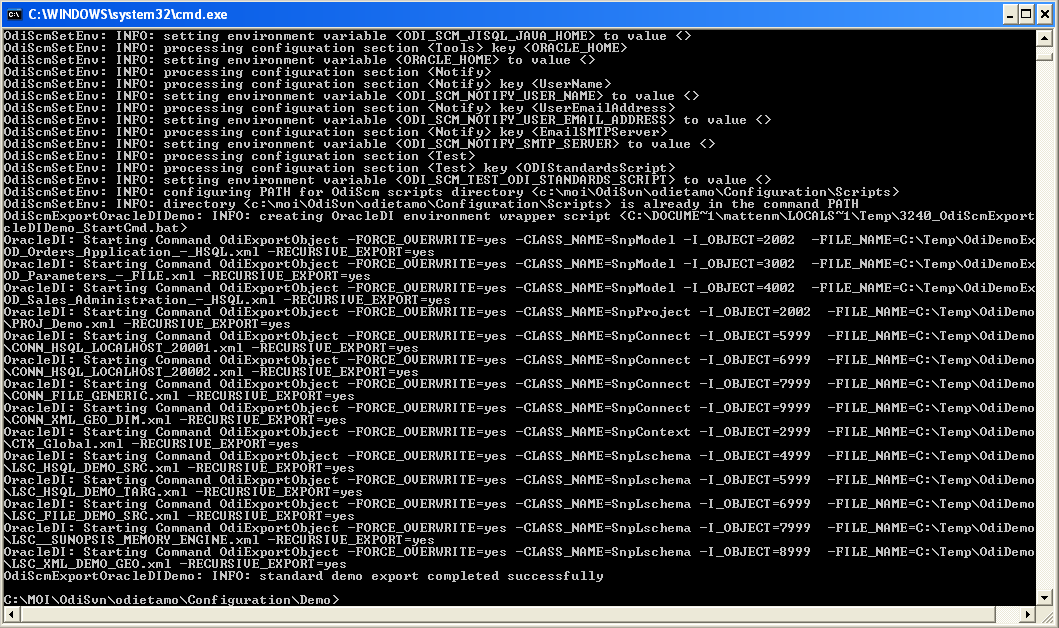
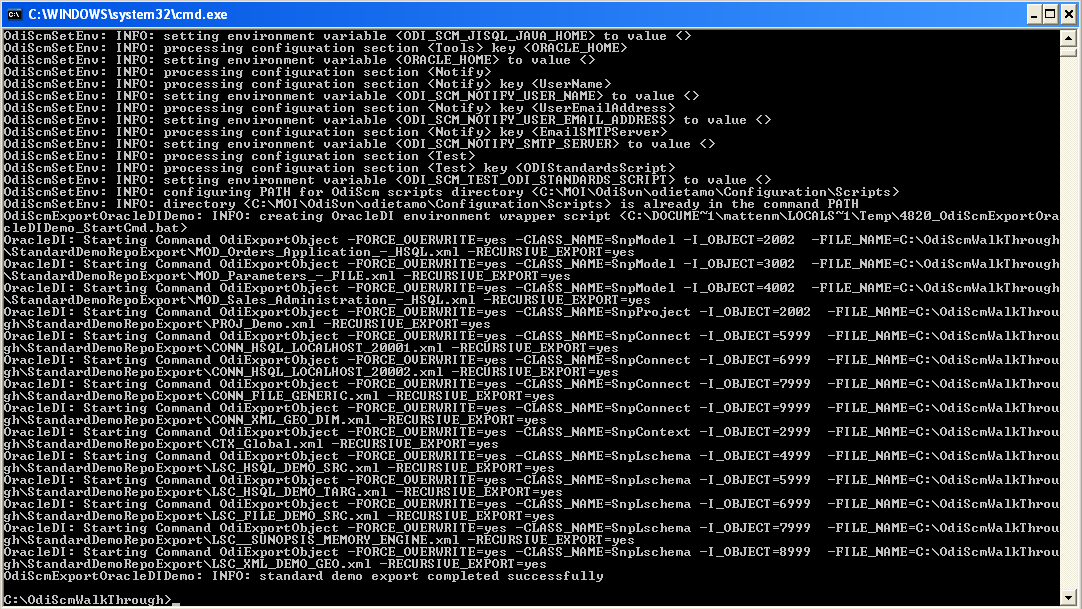
Updates from ODI 11g testing

diff --git a/docs/walk-through.rst b/docs/walk-through.rst
@@ -20,12 +20,12 @@ Download the latest OdiScm files from GitHub::
 
 	https://github.com/pmsoftware/odietamo/archive/master.zip
 
-Unpack the contents of "odietamo-master.zip" to a new empty directory. E.g. to::
+Unpack the contents of "odietamo-master.zip" to a new empty directory::
 
 	C:\OdiScm
 
 Add a new environment variable ODI_SCM_HOME (My Computer -> Advanced -> Environment Variables)
-either in the User or System sections. Set the variable value to the path of the new directory into which the OdiScm files were unpacked. E.g. to::
+either in the User or System sections. Set the variable value to the path of the new directory into which the OdiScm files were unpacked::
 
 	C:\OdiScm\odietamo-master
 
@@ -70,7 +70,11 @@ Download the collection from::
 
 	http://sourceforge.net/projects/unxutils
 
-Unpack the archive to an empty directory and add the full path of the `usr\\local\\wbin` subdirectory. E.g. add::
+Unpack the archive to the new empty directory::
+
+	C:\UnxUtils
+
+and add the subdirectory path::
 
 	C:\UnxUtils\usr\local\wbin
 
@@ -80,18 +84,41 @@ to the *end* of the Windows command path, either in the User or System sections:
 
 Note that we add this collection to the *end* of the command path so minimise conflicts with Windows commands having the same name as commands from the UnxUtils collection.
 
+Test the availability of the UnxUtils commands by opening a command prompt (cmd.exe) window and running a couple of commands::
+
+	gawk.exe
+	du.exe
+
+Both of the above commands should be found and display their options.
+
+.. figure:: imgs/3_1_1.png
+
 Install Jisql
 -------------
 
-Download the tool from::
+Download the latest version of Jisql from::
 
 	http://www.xigole.com/software/jisql/build/jisql-2.0.11.zip
 
-Unpack the archive to an empty directory. E.g. add::
+Note that at the time of writing the latest version is 2.0.11. In general the latest version can download from::
 
-	C:\jisql-2.0.1
+	http://www.xigole.com/software/jisql/jisql.jsp
 
-There is no need to add the command directory to the PATH environment variable.
+Unpack the archive to an empty directory::
+
+	C:\jisql
+
+So, at the time of writing we have the direcotry structure::
+
+	C:\jisql
+	C:\jisql\jisql-2.0.11
+	C:\jisql\jisql-2.0.11\<jisql sub directories>
+
+There is no need to add the command directory::
+
+	C:\jisql\jisql-2.0.11		(or the eqivalent path for your Jisql version)
+
+to the PATH environment variable.
 
 Install Java
 ------------
@@ -110,6 +137,12 @@ Install Oracle Client
 ---------------------
 
 An Oracle client is required for repository backup operations. A fat client is required rather than the 'instant' client as the OdiScm solution requires the 'exp' command line utility in order to create repository backups. The Oracle client software that OdiScm will use must be compatible with the Oracle database(s) that host the ODI repositories that you will be using.
+
+This installation can be tested by running the exp.exe command.
+
+.. figure:: imgs/3_1_2.png
+
+If installed correctly, the imp.exe command will prompt for a database logon user name. Pressing <Control>-C will return you to the command prompt.
 
 Export the standard ODI demo repository
 =======================================
@@ -145,13 +178,13 @@ E.g.::
 Export the standard ODI demo repository
 ---------------------------------------
 
-Copy the file "OdiScmExportStandardOdiDemoTemplate.ini" to a new, temporary, location::
+Create a new empty directory for the walk-through::
 
-	copy "%ODI_SCM_HOME%\Configuration\Demo\OdiScmExportStandardOdiDemoTemplate.ini" <path/to/your/temp/directory>\OdiScmExportStandardOdiDemo.ini
+	mkdir C:\OdiScmWalkThrough
 
-E.g.: -::
+Copy the file "OdiScmExportStandardOdiDemoTemplate.ini" to the walk-through directory::
 
-	copy "%ODI_SCM_HOME%\Configuration\Demo\OdiScmExportStandardOdiDemoTemplate.ini" C:\Temp\OdiScmExportStandardOdiDemo.ini
+	copy "%ODI_SCM_HOME%\Configuration\Demo\OdiScmExportStandardOdiDemoTemplate.ini" C:\OdiScmWalkThrough\OdiScmExportStandardOdiDemo.ini
 
 Open the new file in a text editor and edit the following entries: -
 
@@ -169,23 +202,15 @@ E.g.: -
 
 Save the file. Then tell OdiScm to use this file for its configuration file::
 
-	set ODI_SCM_INI=<your new INI file path and name>
+	set ODI_SCM_INI=C:\OdiScmWalkThrough\OdiScmExportStandardOdiDemo.ini
 
-E.g.::
+Export the standard demo repository to a new directory using the following command. Ensure you include the "/b" switch or the command prompt window will close! Also, ensure you specify either 10G or 11G:
 
-	set ODI_SCM_INI=C:\Temp\OdiScmExportStandardOdiDemo.ini
-
-Change the working directory to the OdiScm demo directory::
-
-	cd /d %ODI_SCM_HOME%\Configuration\Demo
-
-Export the standard demo repository to a new directory using the following command (ensure you include the "/b" switch or the command prompt window will close!)::
-
-	call OdiScmExportOracleDIDemo.bat /b <path/to/new/directory/to/create> <10G | 11G>
+	call "%ODI_SCM_HOME%\Configuration\Demo\OdiScmExportOracleDIDemo.bat" /b C:\OdiScmWalkThrough\StandardDemoRepoExport <10G | 11G>
 
 Note.: -
 
-* Replace <path/to/new/directory/to/create> with the path of a directory that does not currently exist and can be created by the OdiScmExportOracleDIDemo.bat script.
+* The directory path specified will be created by the export script. It must not already exist.
 * 10G or 11G must be specified and must correspond to the version of ODI that you're using.
 
 The standard ODI demo repository will then be exported:
@@ -202,8 +227,9 @@ Create a new linked master and work repository
 Create a new Oracle user
 ------------------------
 
-Create a new user in an Oracle database and grant the user CONNECT and RESOURCE roles. Note that examples in this walk-through use a local Oracle XE installation.
-E.g. connect to the database as a user that can create new users (e.g. SYSTEM) using SQL*Plus. E.g.::
+Note that examples in this walk-through use a local Oracle XE installation.
+
+Connect to the database as a user that can create new users (e.g. SYSTEM) using SQL*Plus::
 
 	sqlplus system/password@XE
 
@@ -284,7 +310,7 @@ Create a new work repository from the Repositories tree view by right-clicking o
 
 .. figure:: imgs/4_3_0.png
 
-Complete the "Definition" tab for the new work repository connection:
+Complete the "Definition" tab for the new work repository connection. Note that we're creating a Work Repository in the same schema/user as the Master Repository::
 
 .. figure:: imgs/4_3_1.png
 
@@ -296,7 +322,7 @@ Use the "Test" function, using the Local agent, to test the connection details f
 
 .. figure:: imgs/4_3_3.png
 
-Then enter the details of the new work repository. Any value in the range 1 to 899 may be used for the walk-through Work Repository internal ID. Click OK and wait for a few seconds for the new work repository structure to be created:
+Then enter the details of the new work repository. Any value in the range 1 to 899 may be used for the walk-through Work Repository internal ID. Use the name "WORKREP" for the name of the work repository. Click OK and wait for a few seconds for the new work repository structure to be created:
 
 .. figure:: imgs/4_3_4.png
 
@@ -318,134 +344,79 @@ Create an OdiScm configuration file for the import
 
 We now create an OdiScm configuration file for the new Master and Work repository.
 
-Copy the file "OdiScmImportStandardOdiDemoTemplate.ini" to a new, temporary, location::
+Copy the file "OdiScmImportStandardOdiDemoTemplate.ini" to the walk-through directory::
 
-	copy "%ODI_SCM_HOME%\Configuration\Demo\OdiScmExportStandardOdiDemoTemplate.ini" <path/to/your/temp/directory>\OdiScmExportStandardOdiDemo.ini
-
-E.g.: -::
-
-	copy "%ODI_SCM_HOME%\Configuration\Demo\OdiScmExportStandardOdiDemoTemplate.ini" C:\Temp\OdiScmImportStandardOdiDemo.ini
+	copy "%ODI_SCM_HOME%\Configuration\Demo\OdiScmExportStandardOdiDemoTemplate.ini" C:\OdiScmWalkThrough\OdiScmExportStandardOdiDemo.ini
 
 Open the new file in a text editor and edit the following entries in the [OracleDI] section::
 
-* ODI_HOME=<OracleDI Home Dir>
-* ODI_JAVA_HOME=<Java Home Dir for OracleDI>
-* ODI_ENCODED_PASS=<OracleDI user encoded password>
-* ODI_SECU_USER=<OracleDI master repository user name>
-* ODI_SECU_PASS=<OracleDI master repository database user password>
-* ODI_SECU_ENCODED_PASS=<OracleDI master repository database user encoded password>
-* ODI_SECU_URL=jdbc:oracle:thin:@<host>:<port>:<sid>
-* ODI_SECU_WORK_REP=<OracleDI work repository name>
+	ODI_HOME=<OracleDI Home Dir>
+	ODI_JAVA_HOME=<Java Home Dir for OracleDI>
+	ODI_SECU_URL=jdbc:oracle:thin:@<host>:<port>:<sid>
 
-Replace::
-* <OracleDI home dir> with the path to your ODI home directory. The ODI home directory, for OdiScm, is the directory containing the "bin" directory that contains the "startcmd.bat" and "odiparams.bat" batch script files. 
+Replace <OracleDI home dir> with the path to your ODI home directory. The ODI home directory, for OdiScm, is the directory containing the "bin" directory that contains the "startcmd.bat" and "odiparams.bat" batch script files. 
 
 Replace <Java home Dir for OracleDI> with the path to the root of the JVM that you'll be using with ODI. 
 
-Replace <OracleDI user encoded password> with the password for the corresponding ODI user name entry (ODI_USER). Passwords are encoded using the command::
-
-* ODI 10g:		<OracleDI Home Dir>\bin\agent.bat encode <password-to-encode>
-* ODI 10g:		<OracleDI Home Dir>\agent\bin\encode.bat <password-to-encode>
-
-Replace <OracleDI master repository user name> with the Oracle user name that contains the Master Repository.
-
-Replace <OracleDI master repository database user password> with the unencoded password for the Oracle user that contains the Master Repository.
-
-Replace <OracleDI master repository database user encoded password> with the encoded password for the Oracle user that contains the Master Repository.
-
 Replace <host> with the machine name or IP address of the machine that hosts the Master Repository database.
-Replace <port> with the TCP port number on which the Master Repository's Oracle database listener accepts connections.
-Replace <sid> with the Master Repository's Oracle database SID.
 
-Replace <OracleDI work repository name> with the name of the Work Repository.
+Replace <port> with the TCP port number on which the Master Repository's Oracle database listener accepts connections.
+
+Replace <sid> with the Master Repository's Oracle database SID.
 
 Edit the following entries in the [Tools] section::
 
-*ODI_SCM_JISQL_JAVA_HOME=<Java Home Dir for Jisql>
-*ODI_SCM_JISQL_HOME=<Jisql Home Dir>
+	ODI_SCM_JISQL_JAVA_HOME=<Java 6+ Home Dir>
+	ODI_SCM_JISQL_HOME=<Jisql Home Dir>
 
-Replace <Java Home Dir for Jisql> with the path to the root of the JVM that you'll be using with Jisql (i.e. a Java 6 or later JVM).
-Replace <Jisql Home Dir> with the path your Jisql home directory (i.e. the directory containing the "runit.bat" batch script).
+Replace <Java 6+ Home Dir> with the path to the root of the JVM that you'll be using with Jisql (i.e. a Java 6 or later JVM).
+
+Replace <Jisql Home Dir> with the path your Jisql home directory (i.e. the directory containing the "runit.bat" batch script). E.g.::
+
+	C:\jisql\jisql-2.0.11
+
+If you're using ODI 11g then also set a value for the entry::
+
+	ODI_SCM_JISQL_ADDITIONAL_CLASSPATH
+
+This must include the absolute path and name of the JAR files "odj.jar" and "dms.jar". As of ODI 11.1.1.6.0 these are located in the following directories::
+
+	<Oracle Home>\modules\oracle.odl_11.1.1\ojdl.jar
+	<Oracle Home>\modules\oracle.dms_11.1.1\dms.jar
+
+Where <Oracle Home> is the Oracle home directory created by the Oracle installer. E.g. set the entry to::
+
+	C:\oracle\product\11.1.1\Oracle_ODI_1\modules\oracle.odl_11.1.1\ojdl.jar;C:\oracle\product\11.1.1\Oracle_ODI_1\modules\oracle.dms_11.1.1\dms.jar
+
+Note that this option can be used to add any other additional Class or JAR files for Jisql.
 
 Save the file. Then tell OdiScm to use this file for its configuration file::
 
-	set ODI_SCM_INI=<your new INI file path and name>
+	set ODI_SCM_INI=C:\OdiScmWalkThrough\OdiScmImportStandardOdiDemo.ini
 
-E.g.::
+Import the standard demo repository to the Oracle-based Master/Work repository using the following command (ensure you include the "/b" switch or the command prompt window will close!)::
 
-	set ODI_SCM_INI=C:\Temp\OdiScmImportStandardOdiDemo.ini
-
-Change the working directory to the OdiScm demo directory::
-
-	cd /d %ODI_SCM_HOME%\Configuration\Demo
-
-Export the standard demo repository to a new directory using the following command (ensure you include the "/b" switch or the command prompt window will close!)::
-
-	call OdiScmImportOracleDIDemo.bat /b <path/to/demo/repository/export> <10G | 11G>
+	call "%ODI_SCM_HOME%\Configuration\Demo\OdiScmImportOracleDIDemo.bat" /b C:\OdiScmWalkThrough\StandardDemoRepoExport <10G | 11G>
 
 Note.: -
 
-* Replace <path/to/demo/repository/export> with the path of the directory created previously by the demo repository export process.
 * 10G or 11G must be specified and must correspond to the version of ODI that you're using.
 
 The standard ODI demo repository will then be imported into the new repository:
 
 .. figure:: imgs/11_1_2.png
 
+Connect to the Oracle-based Work Repository, if you're not already, otherwise refresh the Designer views (Projects and Models). Have a look. It contains the standard ODI demo projects and models!
+
 Install and configure the ODI-SCM repository components
 =======================================================
-
-
-Set environment variables
--------------------------
-
-Start a new Windows command prompt window (Start Menu -> Run… -> cmd.exe).
-
-
-
-“CD” to the ODI home directory to use for this session. I.e. the directory containing the ODI “bin” directory (the ODI binaries). E.g.::
-
-::
-
-    cd /d C:\oracledi_fordemo1
-    Set the ODI_HOME environment variable for this session::
-    set ODI_HOME=%CD%
-
-
-Configure “odiparams”
----------------------
-“CD” to the ODI “bin” directory::
-cd %ODI_HOME%\bin
-Create the encoded representation of the master repository password for the new master repository by typing, at the command prompt. E.g.::
-agent encode odirepofordemo
-Set the repository connection details in the “odiparams.bat” file in the “bin” directory. Note that one might want to create a backup of your existing “odiparams.bat” file first. Alternatively one can ‘comment out’ the existing section and create a new copy of this section in the same file, immediately after the existing section, to override the environment variable settings with values for the new repository. 
-Note that::
-the entry in bold below is a custom entry required by the OdiScm mechanism::
-the entry in blue is the encoded password string created using “agent encode…” command, above::
-
-    rem
-    rem Repository Connection Information
-    rem
-    set ODI_SECU_DRIVER=oracle.jdbc.driver.OracleDriver
-    set ODI_SECU_URL=jdbc:oracle:thin:@localhost:1521:xe
-    set ODI_SECU_USER=odirepofordemo
-    set ODI_SECU_ENCODED_PASS=brfXH96Z5HtVgL5staMYzldCSb
-    set ODI_SECU_PASS=odirepofordemo
-    set ODI_SECU_WORK_REP=WORKREP
-    set ODI_USER=SUPERVISOR
-    set ODI_ENCODED_PASS=a7ypx6q1nhHGmAgO4acSJbMxp
-
-Test the connection details, entered into the “odiparams.bat” file by running the command “agentscheduler.bat”. If the connection details have been correctly entered into the “odiparams.bat” file then you will see an error message indicating that an ODI agent
-definition does not exist in the repository (i.e. the process was at least able to connect to the repository)
-
-.. figure:: imgs/5_2_0.png
 
 Import the ODI-SCM repository components
 ----------------------------------------
 
 Run the following command to import the ODI code components of ODI-SCM  into the new repository::
 
-    OdiScmImportOdiScm.bat NoExportPrime
+	call "%ODI_SCM_HOME%\Configuration\Scripts\OdiScmImportOdiScm.bat" NoExportPrime
 
 .. figure:: imgs/5_3_0.png
  
